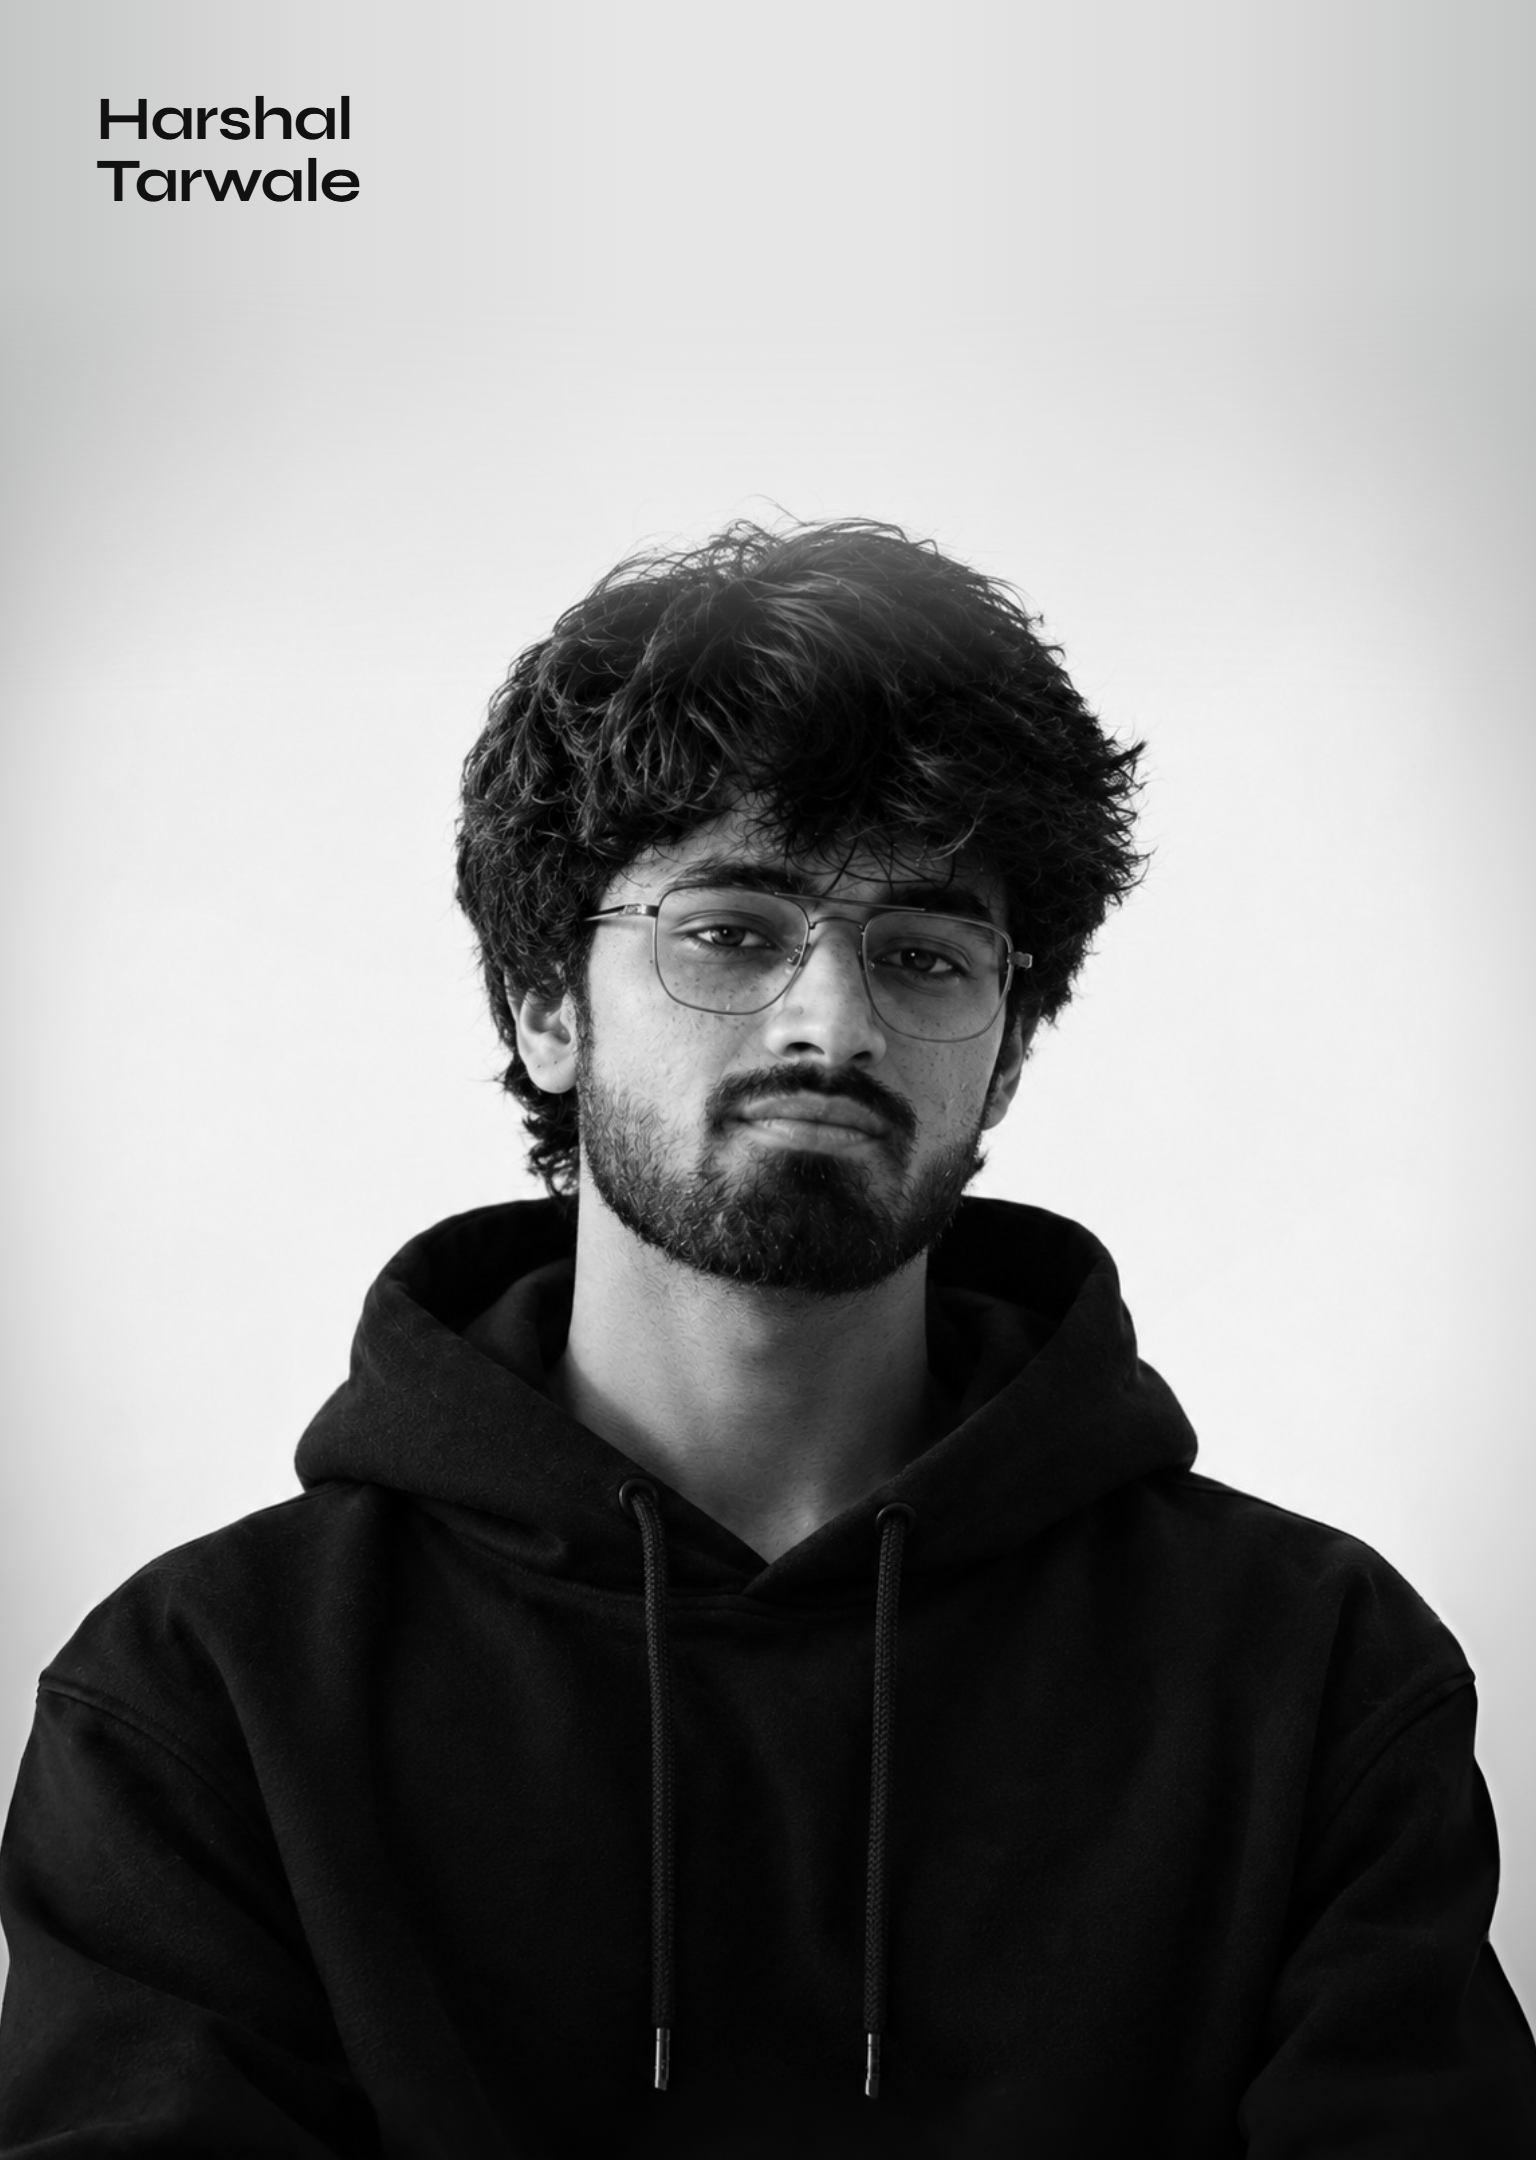
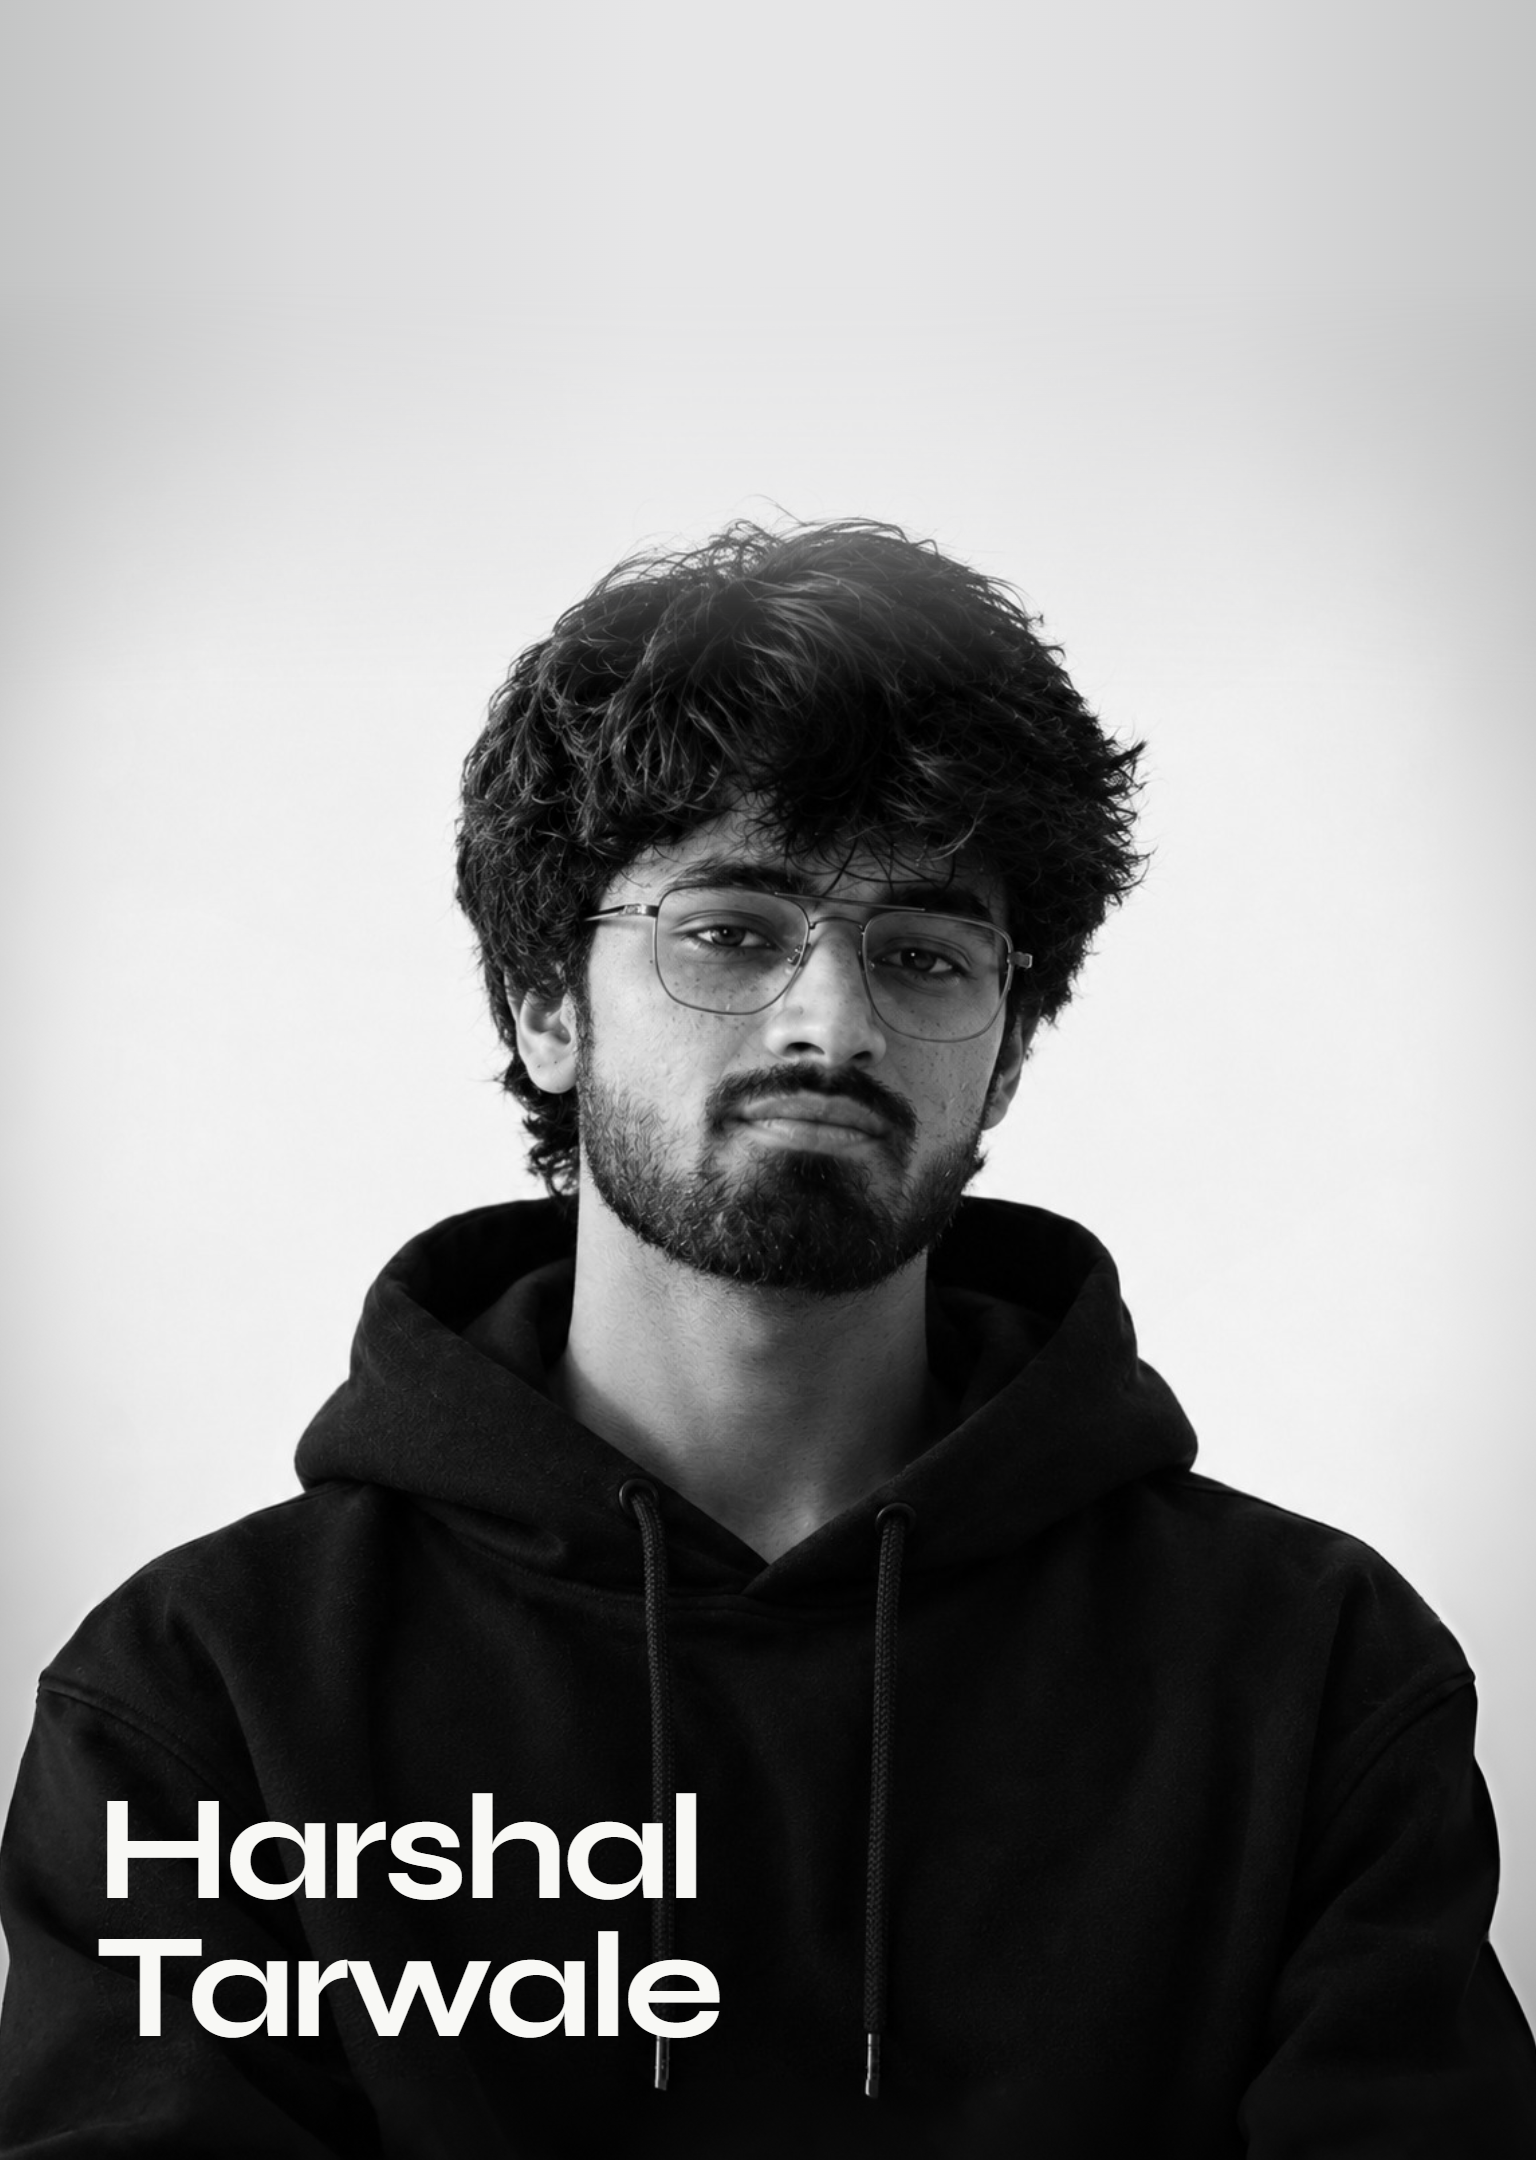
Update lanyard card finish to matte and replace front image

Changed region(s): [[0.0625, 0.8065, 0.4688, 0.9616], [0.0625, 0.031, 0.25, 0.0931]]

diff --git a/app.js b/app.js
@@ -26,7 +26,7 @@
       frontImage: 'assets/lanyard/card-front.png',
       backImage: 'assets/lanyard/card-back.png',
       strapImage: 'assets/lanyard/strap.jpg',
-      finish: 'glossy',
+      finish: 'matte',
       cardColor: '#0b0908',
       strapColor: '#101010',
       metal: 'silver',
